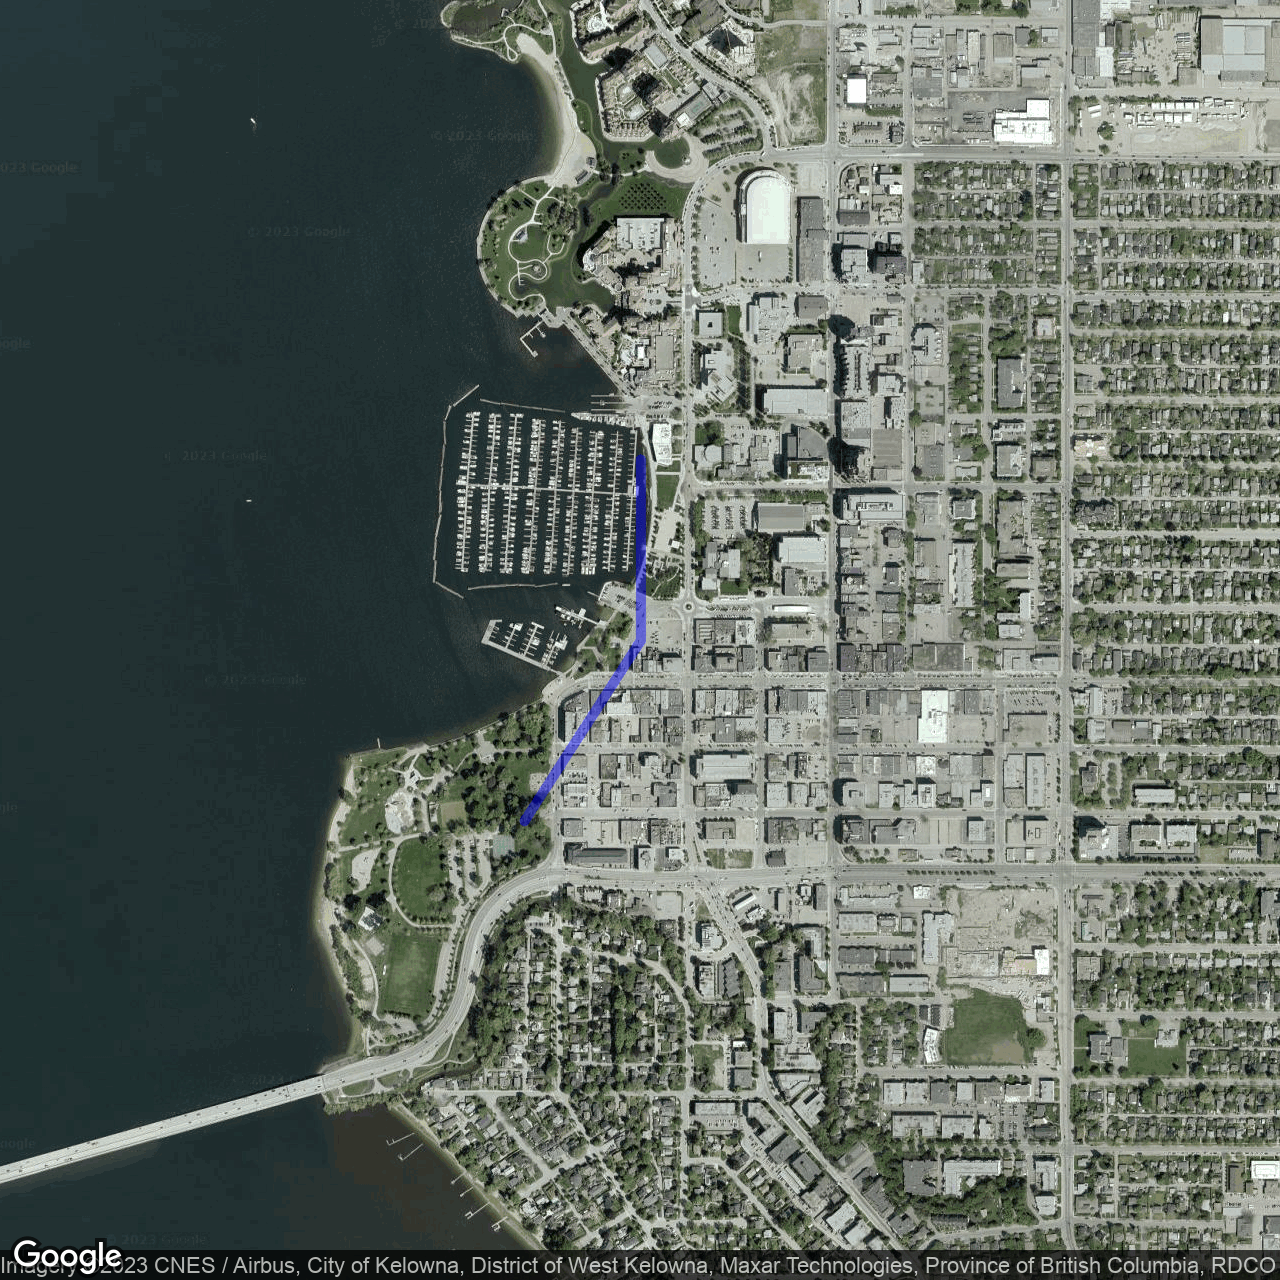
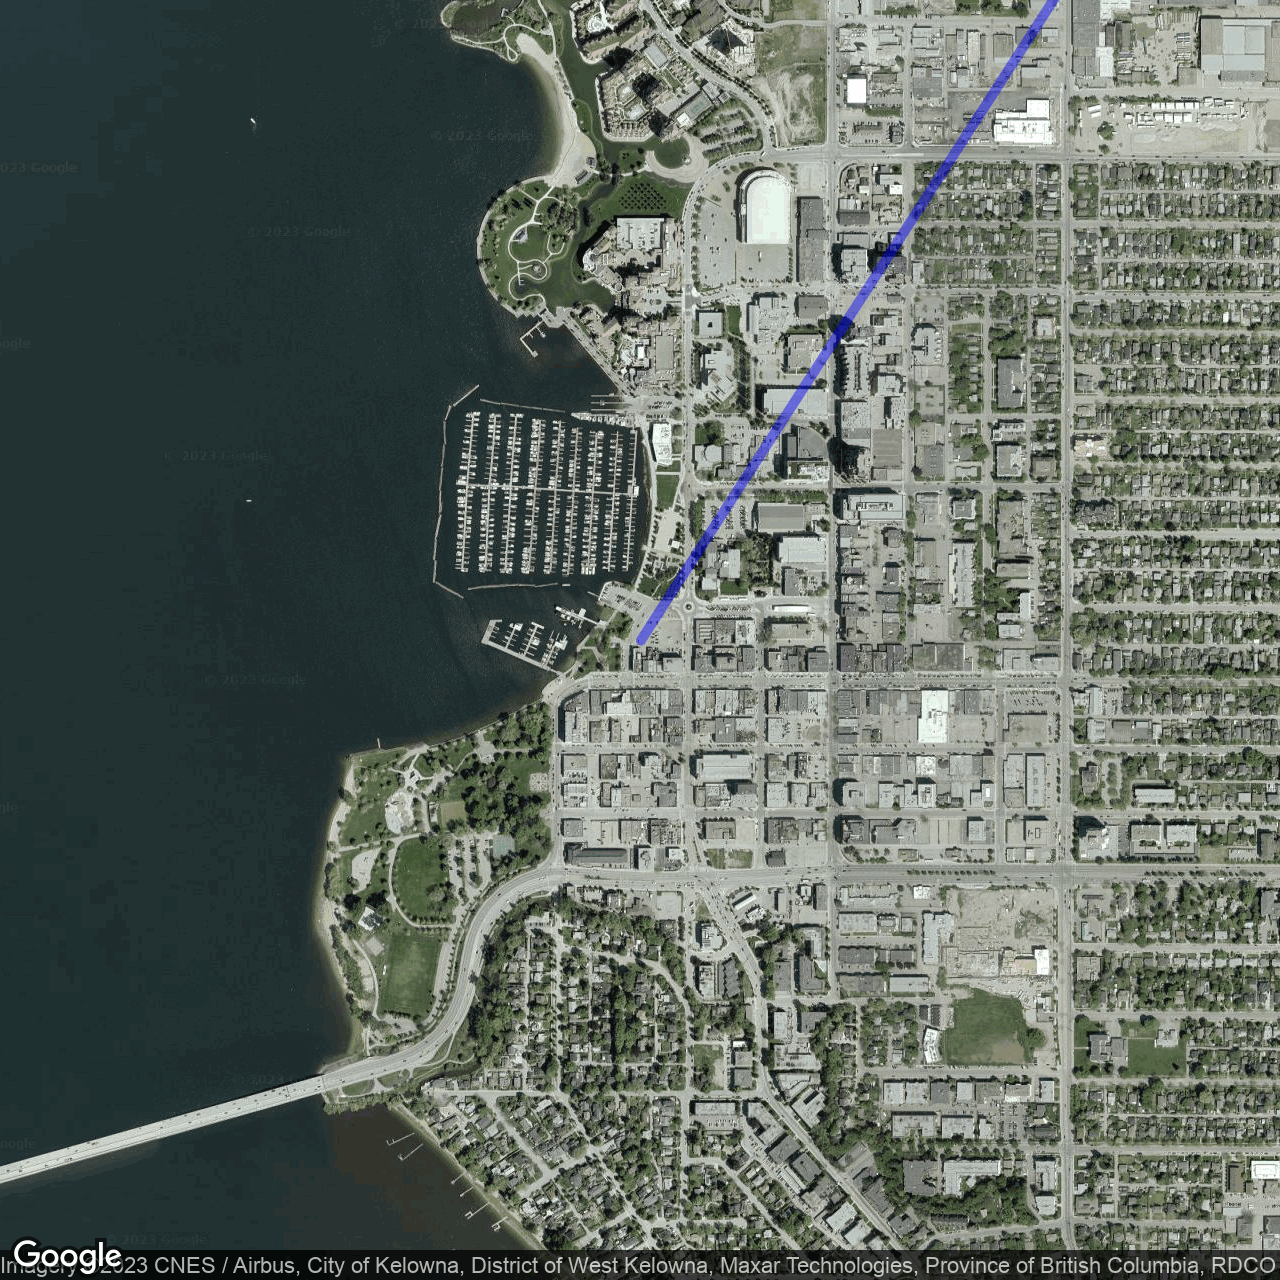
Added basic path finding ability

diff --git a/Main.py b/Main.py
@@ -1,11 +1,11 @@
 import requests
 import json
 import math
-import cv2
-import sys
+from queue import PriorityQueue
+from geopy.distance import geodesic
 
 # Function to calculate the total distance and change in elevation between two points
-def calculate_distance(point1, point2, api_key):
+def calculate_elevation_difference(point1, point2, api_key):
     # Get the elevation data for the two points
     elev1 = get_elevation(point1, api_key)
     elev2 = get_elevation(point2, api_key)
@@ -13,19 +13,13 @@ def calculate_distance(point1, point2, api_key):
     # Calculate the change in elevation
     elev_diff = abs(elev1 - elev2)
 
-    # Calculate the distance between the two points using the Haversine formula
-    lat1, lng1 = point1
-    lat2, lng2 = point2
-    lat1, lat2 = map(math.radians, [lat1, lat2])
-    lng1, lng2 = map(math.radians, [lng1, lng2])
-    dlat = lat2 - lat1
-    dlng = lng2 - lng1
-    a = (math.sin(dlat/2)**2) + math.cos(lat1) * math.cos(lat2) * (math.sin(dlng/2)**2)
-    c = 2 * math.asin(math.sqrt(a))
-    distance = 6371 * c
+    return elev_diff
 
+def calculate_distance(point1, point2):
+    # Calculate the distance between the two points using the Haversine formula
+    distance = geodesic(point1, point2).kilometers
     # Return the total distance and change in elevation
-    return distance, elev_diff
+    return distance
 
 # Function to get the elevation for a given point from the Google Elevation API
 def get_elevation(point, api_key):
@@ -38,76 +32,123 @@ def get_elevation(point, api_key):
 # Function to find the shortest path between two points with an allowable change in altitude
 def find_shortest_path(start, end, api_key, max_elev_diff):
     # Add the starting point to the queue
-    queue = [(start, get_elevation(start, api_key))]
+    queue = PriorityQueue()
+    queue.put(( start, [start]))
     visited = set()
+    lat_diff_threshold = 0.005
+    lng_diff_threshold = 0.005
+    shortest_distance = calculate_distance(start, end)
 
     # Continue searching until the queue is empty
-    while queue:
+    while not queue.empty():
         # Get the next point from the queue
-        point, elev_diff = queue.pop(0)
-
+        point, path = queue.get()
+        nextPoint = None;
         # Check if the point has been visited
         if point in visited:
             continue
         visited.add(point)
 
-        # Check if the point is the end point
-        if point == end:
-            return elev_diff
+        # Check if the point is close enough to the end point
+        lat_end, lng_end = end
+        lat_pnt, lng_pnt = point
+        lat_diff = abs(lat_pnt - lat_end)
+        lng_diff = abs(lng_pnt - lng_end)
+        if lat_diff <= lat_diff_threshold and lng_diff <= lng_diff_threshold:
+            return True, path
 
         # Get the neighbors of the current point
         neighbors = get_neighbors(point)
 
         # Add the neighbors to the queue if the change in elevation is within the allowed limit
+        i = 0
+        chosen = 0
         for neighbor in neighbors:
-            distance, elev_diff = calculate_distance(point, neighbor, api_key)
-            if elev_diff <= max_elev_diff:
-                print(elev_diff)
-                queue.append((neighbor, elev_diff))
+            elev_change = calculate_elevation_difference(point, neighbor, api_key)
+            distance = calculate_distance(neighbor, end)
+            if elev_change <= max_elev_diff and distance < shortest_distance:
+                chosen = i
+                nextPoint = neighbor
+                shortest_distance = distance
+                print(shortest_distance)
+            i+=1
+
+
+        if nextPoint == None:
+            return False, path
+        
+        new_path = path + [nextPoint]
+        queue.put((neighbors[chosen], new_path))
+        
+        
 
     # Return None if no path was found
-    return None
+    return False, path
 
 # Function to get the neighbors of a given point
 def get_neighbors(point):
     # Add code to get the neighbors of the given point based on the desired resolution and geography.
     # Example:
     lat, lng = point
-    return [(lat + 0.025, lng + 0.025), (lat - 0.025, lng - 0.025), (lat + 0.025, lng - 0.025), (lat - 0.025, lng + 0.025)]
+    return [(lat + 0.005, lng),         (lat - 0.005, lng),
+            (lat, lng - 0.005),         (lat, lng + 0.005),
+            (lat + 0.005, lng + 0.005), (lat - 0.005, lng - 0.005),
+            (lat + 0.005, lng - 0.005), (lat - 0.005, lng + 0.005)]
 
-def display_route_on_map(api_key, center, pathstring):
+def display_route_on_map(api_key, center, pathstring, zoom):
 
     # Build the URL for the static map
     url = "https://maps.googleapis.com/maps/api/staticmap?"
-    zoom = 15
     scale = 4
 
     r = requests.get(url + "center=" + str(center[0])+","+str(center[1]) + "&zoom=" + str(zoom) 
                      + "&maptype=satellite" + "&scale=" + str(scale)
-                     + "&path="+ str(center[0]-.0025)+","+str(center[1]-.0025)+"|"+ str(center[0])+","+str(center[1])+"|"+ str(center[0]+.0025)+","+str(center[1])
+                     + "&path="+pathstring
                      + "&size=1200x1200&key=" + api_key)
     map = r.content
 
-    f = open("Pictures/Pictures"+str(center)+".png", 'wb')
+    f = open("Pictures/Pictures1"+str(center)+".png", 'wb')
     # r.content gives content, in this case gives image
     f.write(map)
     # close method of file object save and close the file
     f.close()
 
+def toURLString(pathSet):
+    path_string = ""
+    i = 0;
+    for point in pathSet:
+        if i != 0:
+            path_string += f"|"
+        print(i)
+        lat, lng = point
+        path_string += f"{lat},{lng}"
+        i=i+1
+    return path_string
 
 
 
 # Example usage
 start = (49.886894, -119.497638)
-end = (49.919958, -119.393355)
+end   = (49.919958, -119.393355)
 f = open("API_KEY.txt","r")
 api_key = f.readline()
 print(str(start[0])+","+str(start[1]))
 print(get_elevation(end, api_key))
 max_elev_diff = 100
-display_route_on_map(api_key, start)
-display_route_on_map(api_key, end)
 
-#shortest_path = find_shortest_path(start, end, api_key, max_elev_diff)
+distance = calculate_distance(start, end)
+#print(distance)
+#for i in range(1,20):
+#    lat, lng = start
+#    start = (lat-.00, lng+.005)
+#    distance = calculate_distance(start, end)
+#    print(distance)
+completePath, shortest_path = find_shortest_path(start, end, api_key, max_elev_diff)
+print("Complete Path: " + str(completePath))
+pathString = toURLString(shortest_path)
+print(pathString)
+display_route_on_map(api_key, start, pathString, 15)
+display_route_on_map(api_key, end, pathString, 15)
+display_route_on_map(api_key, (49.92689400000002,-119.44763800000004), pathString, 12)
 #print("Shortest path:", shortest_path)
 
